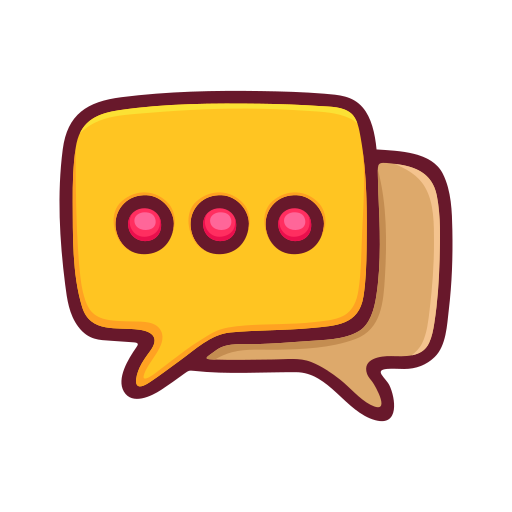
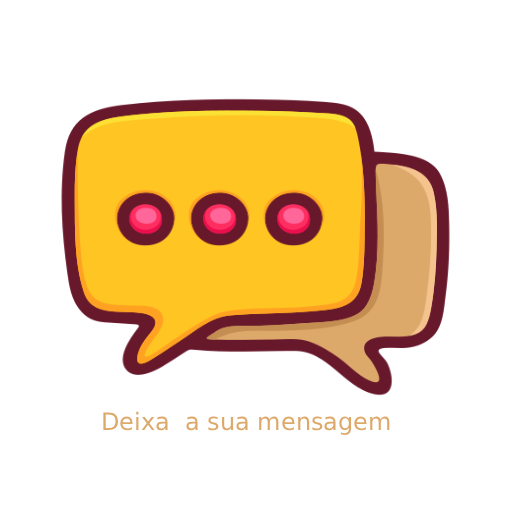
update

Changed region(s): [[0.0938, 0.1562, 0.9062, 0.8438], [0.375, 0.375, 0.6562, 0.5], [0.2188, 0.375, 0.3438, 0.5]]

diff --git a/frontend/public/sw-register.js b/frontend/public/sw-register.js
@@ -1,0 +1,62 @@
+// Registra o Service Worker
+if ('serviceWorker' in navigator) {
+    window.addEventListener('load', () => {
+        navigator.serviceWorker
+            .register('/service-worker.js')
+            .then((registration) => {
+                console.log(' Service Worker registrado com sucesso:', registration);
+
+                // Verifica atualizações
+                registration.addEventListener('updatefound', () => {
+                    const newWorker = registration.installing;
+                    newWorker.addEventListener('statechange', () => {
+                        if (newWorker.state === 'installed' && navigator.serviceWorker.controller) {
+                            console.log('⚡ Nova versão disponível!');
+                            // Você pode notificar o usuário aqui
+                        }
+                    });
+                });
+            })
+            .catch((error) => {
+                console.error(' Erro ao registrar Service Worker:', error);
+            });
+    });
+} else {
+    console.warn(' Service Worker não suportado neste navegador');
+}
+
+// Instalação do PWA (Prompt de instalação)
+let deferredPrompt;
+
+window.addEventListener('beforeinstallprompt', (e) => {
+    e.preventDefault();
+    deferredPrompt = e;
+    console.log(' PWA pronto para instalar');
+
+    // Você pode mostrar um botão "Instalar" aqui
+    // Exemplo:
+    // document.getElementById('install-button').style.display = 'block';
+});
+
+// Função para instalar o PWA (chame quando o usuário clicar no botão)
+function instalarPWA() {
+    if (deferredPrompt) {
+        deferredPrompt.prompt();
+        deferredPrompt.userChoice.then((choiceResult) => {
+            if (choiceResult.outcome === 'accepted') {
+                console.log(' Usuário aceitou instalar o PWA');
+            } else {
+                console.log('Usuário rejeitou instalar o PWA');
+            }
+            deferredPrompt = null;
+        });
+    }
+}
+
+// Detecta quando o PWA foi instalado
+window.addEventListener('appinstalled', () => {
+    console.log(' PWA foi instalado com sucesso!');
+});
+
+// Expõe a função globalmente para usar em botões HTML
+window.instalarPWA = instalarPWA;

diff --git a/frontend/public/service-worker.js b/frontend/public/service-worker.js
@@ -1,0 +1,84 @@
+const CACHE_NAME = 'agemuca-v1';
+const ASSETS_TO_CACHE = [
+  '/',
+  '/index.html',
+  '/manifest.json',
+  '/icon-192.png',
+  '/icon-512.png',
+  '/icon-maskable-192.png',
+  '/icon-maskable-512.png'
+];
+
+// Instalação do Service Worker
+self.addEventListener('install', (event) => {
+  console.log('Service Worker instalado');
+  event.waitUntil(
+    caches.open(CACHE_NAME).then((cache) => {
+      console.log('Arquivos armazenados em cache');
+      return cache.addAll(ASSETS_TO_CACHE);
+    })
+  );
+  self.skipWaiting();
+});
+
+// Ativação do Service Worker
+self.addEventListener('activate', (event) => {
+  console.log('Service Worker ativado');
+  event.waitUntil(
+    caches.keys().then((cacheNames) => {
+      return Promise.all(
+        cacheNames.map((cacheName) => {
+          if (cacheName !== CACHE_NAME) {
+            console.log('Cache antigo removido:', cacheName);
+            return caches.delete(cacheName);
+          }
+        })
+      );
+    })
+  );
+  self.clients.claim();
+});
+
+// Fetch - Estratégia: Network First, Fall back to Cache
+self.addEventListener('fetch', (event) => {
+  const { request } = event;
+
+  // Ignora requisições não-GET
+  if (request.method !== 'GET') {
+    return;
+  }
+
+  event.respondWith(
+    fetch(request)
+      .then((response) => {
+        // Clona a resposta para usar no cache
+        const responseClone = response.clone();
+        caches.open(CACHE_NAME).then((cache) => {
+          cache.put(request, responseClone);
+        });
+        return response;
+      })
+      .catch(() => {
+        // Se falhar, tenta do cache
+        return caches.match(request).then((cachedResponse) => {
+          return cachedResponse || caches.match('/index.html');
+        });
+      })
+  );
+});
+
+// Background Sync (opcional - para sincronizar dados offline)
+self.addEventListener('sync', (event) => {
+  if (event.tag === 'sync-dados') {
+    event.waitUntil(sincronizarDados());
+  }
+});
+
+async function sincronizarDados() {
+  try {
+    // Adicione sua lógica de sincronização aqui
+    console.log('Dados sincronizados');
+  } catch (error) {
+    console.error('Erro ao sincronizar:', error);
+  }
+}

diff --git a/frontend/index.html b/frontend/index.html
@@ -14,12 +14,25 @@
     <meta property="og:image" content="https://agemuca.netlify.app/preview.webp" />
     <title> Desenvolvimento Web e Tráfego Pago | DevMuca</title>
 
-    <link rel="manifest" href="/manifest.json" />
-    <meta name="theme-color" content="#ffffff" />
+    <!--Configurações para aplicativo android-->
+    <!-- Meta tags para PWA -->
+<meta name="viewport" content="width=device-width, initial-scale=1.0">
+<meta name="description" content="Descubra a idade do seu gato em anos humanos com a conversor IdadeMuca">
+<meta name="theme-color" content="#000000">
+<meta name="mobile-web-app-capable" content="yes">
+<meta name="apple-mobile-web-app-capable" content="yes">
+<meta name="apple-mobile-web-app-status-bar-style" content="black-translucent">
+<meta name="apple-mobile-web-app-title" content="agemuca">
+
+<!-- Links para PWA -->
+<link rel="manifest" href="/manifest.json">
+<link rel="icon" type="image/png" href="/icon-192.png">
+<link rel="apple-touch-icon" href="/icon-192.png">
 
   </head>
   <body>
     <div id="root"></div>
     <script type="module" src="/src/main.jsx"></script>
+    <script src="/sw-register.js"></script>
   </body>
 </html>
